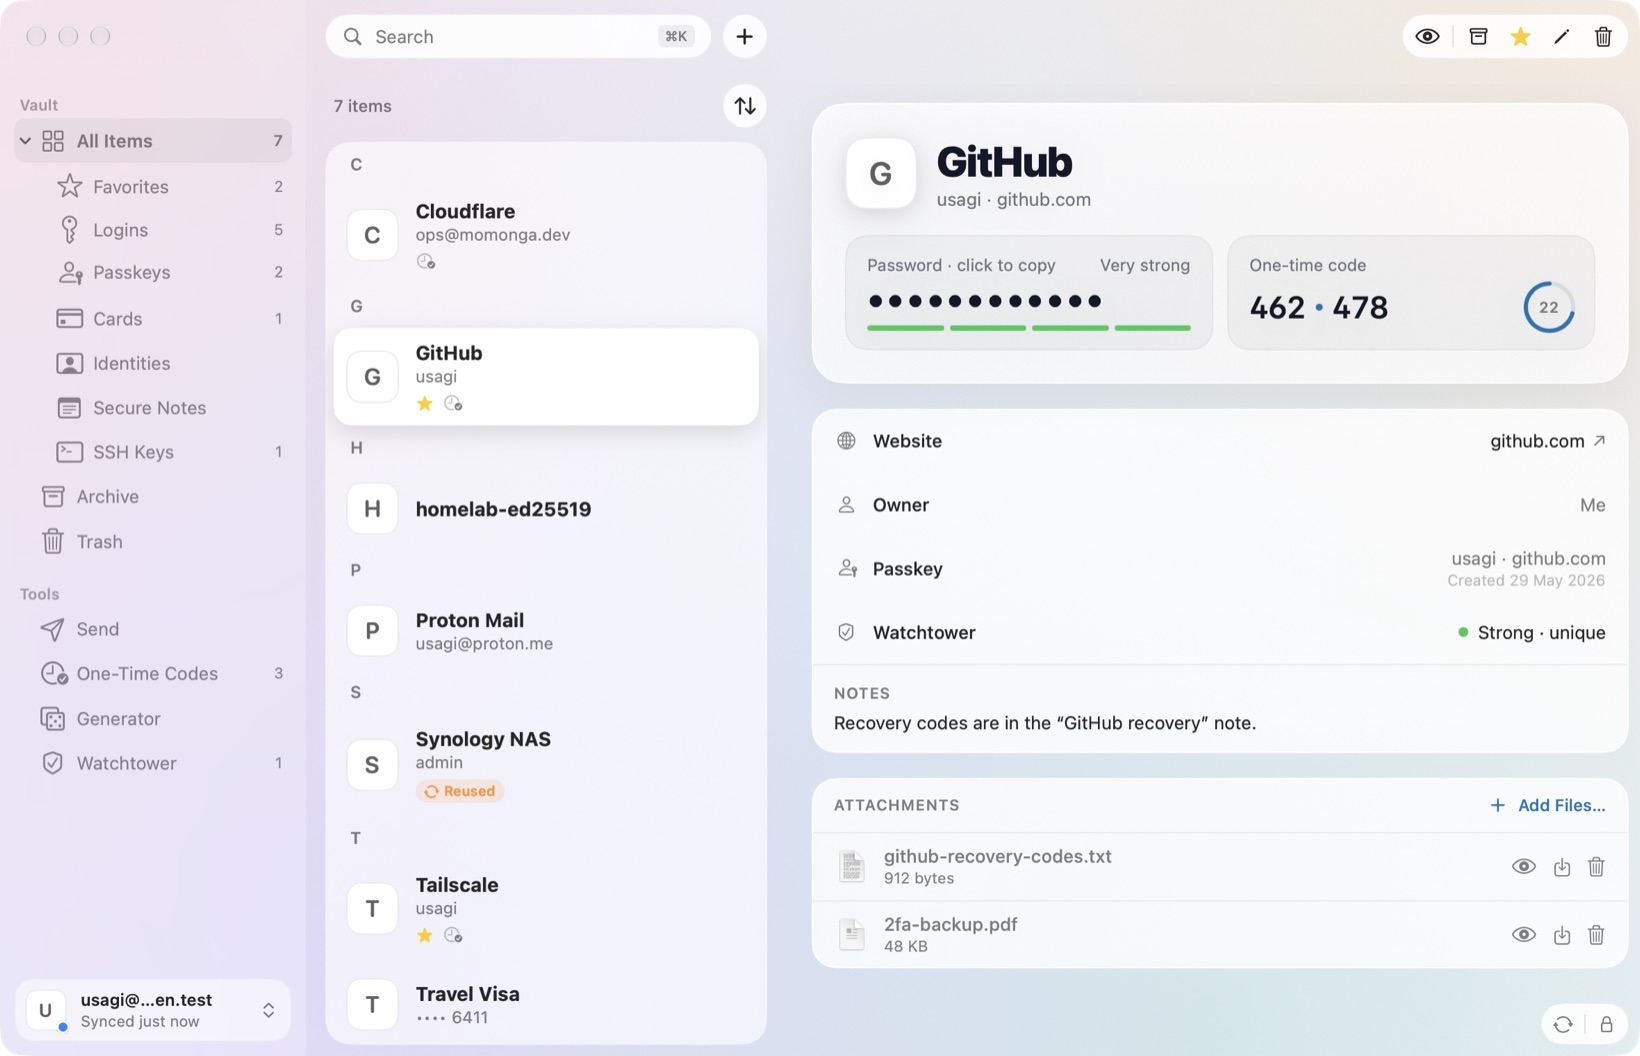
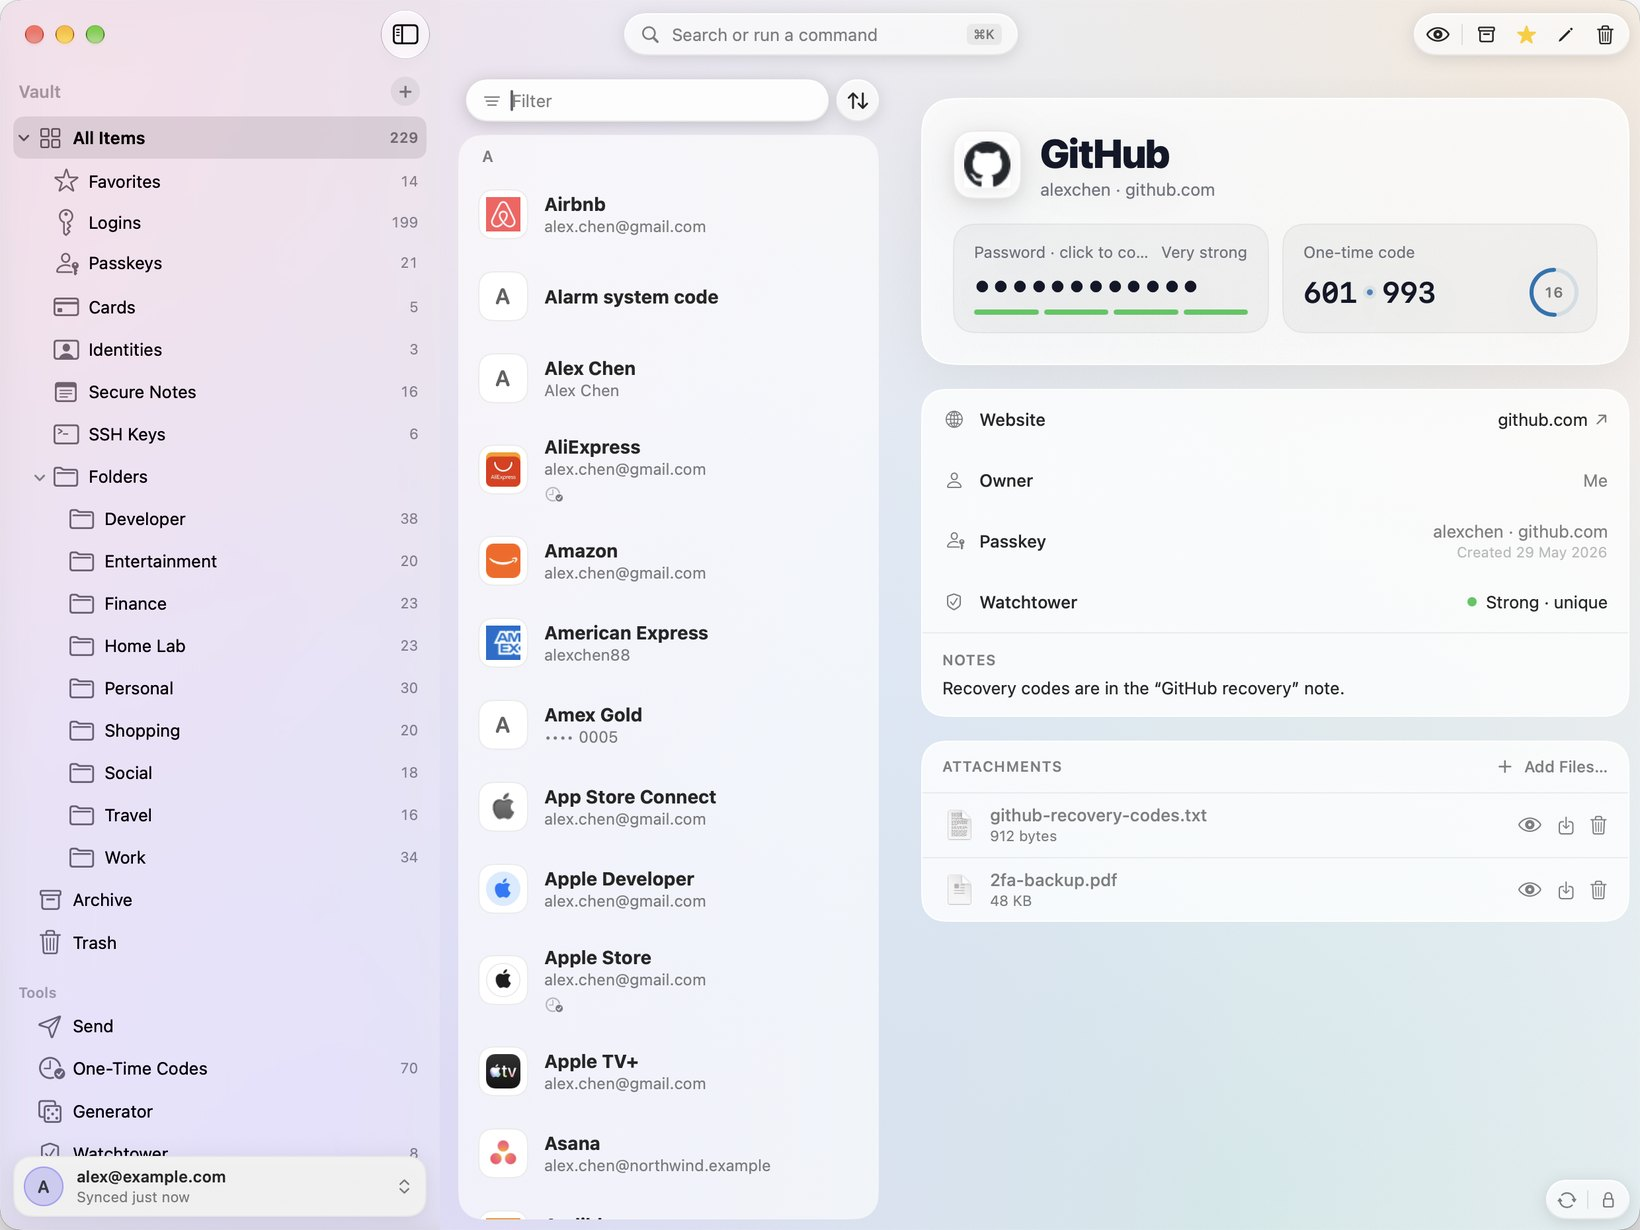
docs: README screenshots from the new demo vault
Vault, palette, codes, generator, Watchtower, dark mode and the lock
screens re-shot from the 229-item demo vault (no Chiikawa names), plus the
menu bar panel and sign-in.

diff --git a/README.md b/README.md
@@ -85,12 +85,20 @@
     <td align="center"><sub>Generator</sub></td>
   </tr>
   <tr>
-    <td><img src="docs/images/watchtower.jpg" alt="Watchtower with its score and a reused password"></td>
+    <td><img src="docs/images/watchtower.jpg" alt="Watchtower with its score, breached and reused passwords"></td>
     <td><img src="docs/images/vault-dark.jpg" alt="The vault in dark mode"></td>
   </tr>
   <tr>
     <td align="center"><sub>Watchtower</sub></td>
     <td align="center"><sub>Dark mode</sub></td>
+  </tr>
+  <tr>
+    <td align="center"><img src="docs/images/menubar.jpg" width="240" alt="The menu bar panel: the page's login first, favorites with live codes, quick actions and the generator"></td>
+    <td><img src="docs/images/signin.jpg" alt="Signing in to a self-hosted Vaultwarden"></td>
+  </tr>
+  <tr>
+    <td align="center"><sub>Menu bar</sub></td>
+    <td align="center"><sub>Sign in to Vaultwarden or Bitwarden</sub></td>
   </tr>
 </table>
 
